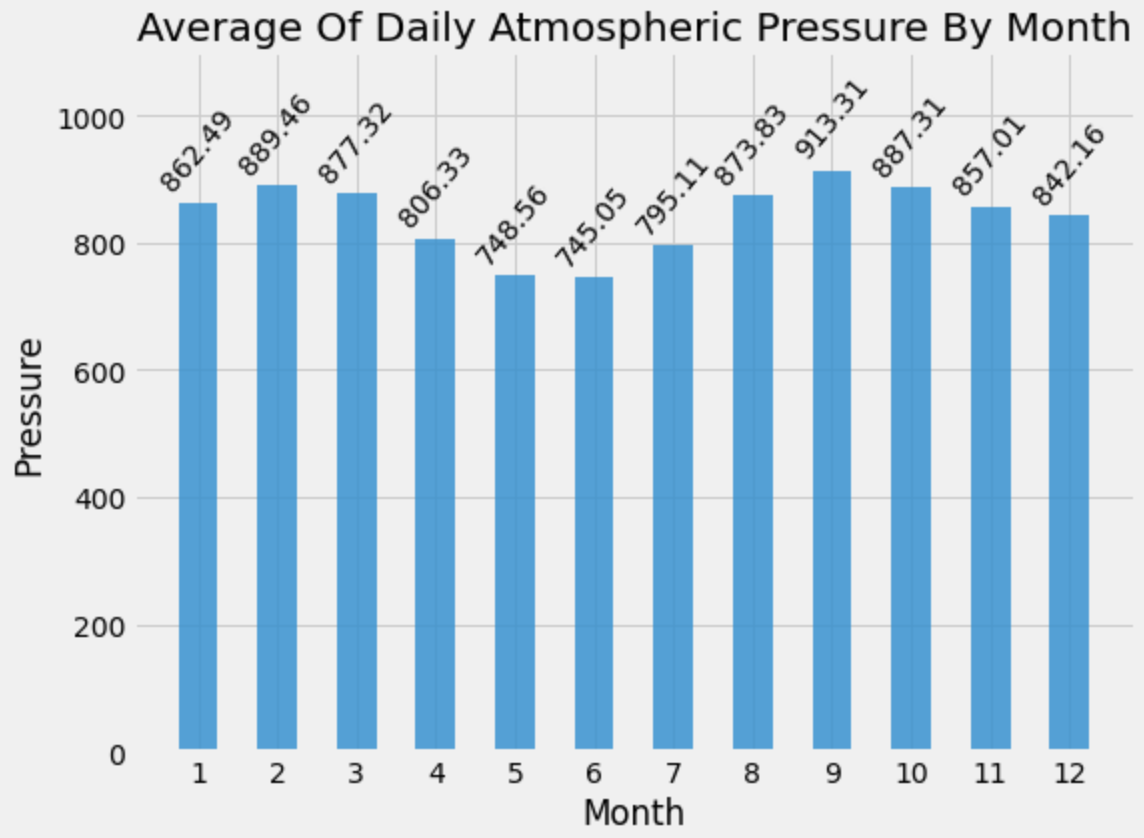
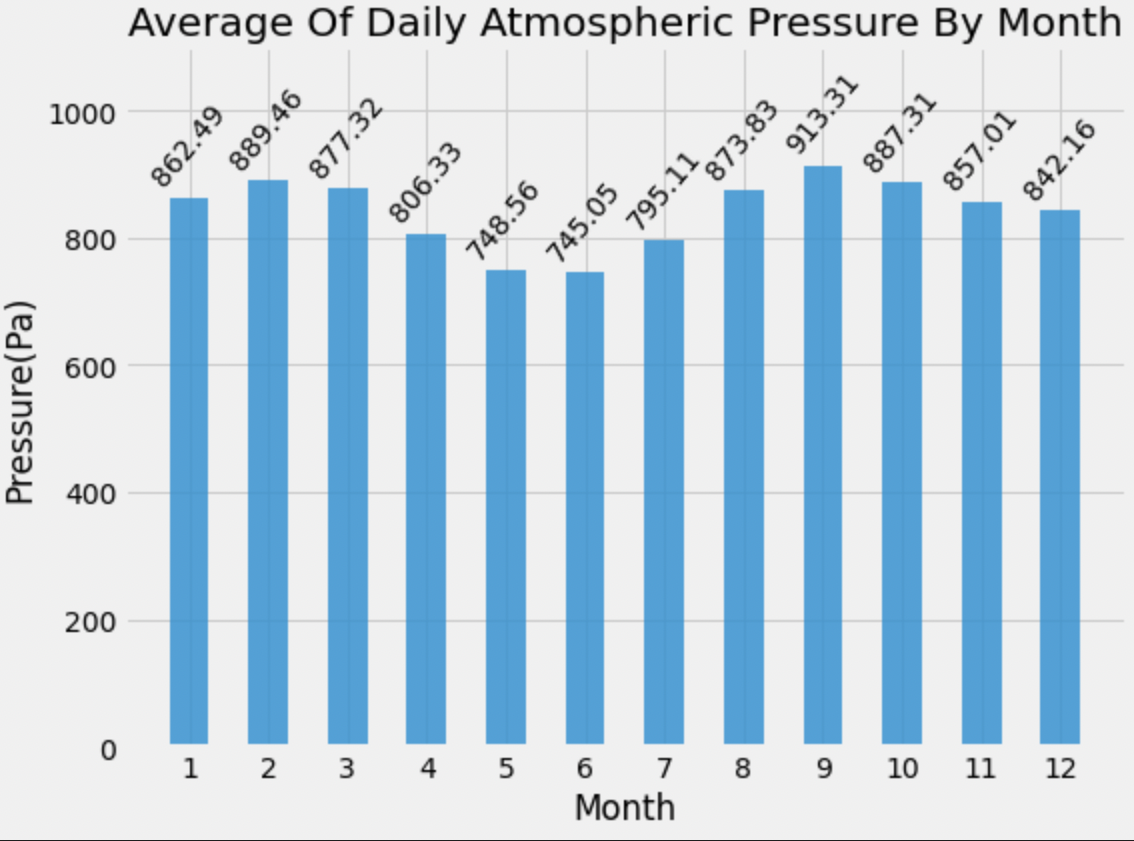
update

diff --git a/README.md b/README.md
@@ -13,7 +13,7 @@ This project has two parts. First part is scraping news from 'https://redplanets
 2. https://data-class-mars-challenge.s3.amazonaws.com/Mars/index.html   
 ![alt text](https://github.com/LynHJ/web-scraping-challenge/blob/2177e6d85f8130523f4f55cf02a6f30c9f0ed65d/Mission_to_Mars/OputData/redplanetscience.png)  
 
----
+
 
 ### Part  1: Scrape Mars News  
 
@@ -24,13 +24,17 @@ This project has two parts. First part is scraping news from 'https://redplanets
 ## Part 2: Scrape and Analyse Mars Weather Data
 
 ![alt text](https://github.com/LynHJ/web-scraping-challenge/blob/8001c5f194f82ba1cb59d4e41ba9c0b1f25b50c7/Mission_to_Mars/OputData/AveTempByMonth.png)  
-##### Summary:  
-![alt text](https://github.com/LynHJ/web-scraping-challenge/blob/ade26ca6b0bdebde7e128a4806ffd0e37c2b907d/Mission_to_Mars/OputData/AvePresByMonth.png)  
-##### Summary:  
+##### Summary:
+According to the bar chart above,overall, the weather on Mars is quite cold. The coldest month on Mars is month 3 with temperature -83.31°C, while the warmest month on Mars is month 8 with temperature -68.38°C. How to build up a habitable environment in that temperature zone is the first task for human beings.
+
+ 
+![alt text](https://github.com/LynHJ/web-scraping-challenge/blob/bed5c08b58450f833194618e93e4ef03977211e6/Mission_to_Mars/OputData/AvePressByMonth.png)  
+##### Summary: 
+According to the bar chart above,the atmospheric pressure on Mars is from 750 units to 910 units.
 ![alt text](https://github.com/LynHJ/web-scraping-challenge/blob/67501cec27df0cd71aff8ec3f64b20ee4d443978/Mission_to_Mars/OputData/DailyTemp.png)  
 ##### Summary:  
  
----
+
 
 ## Content:
 ```
